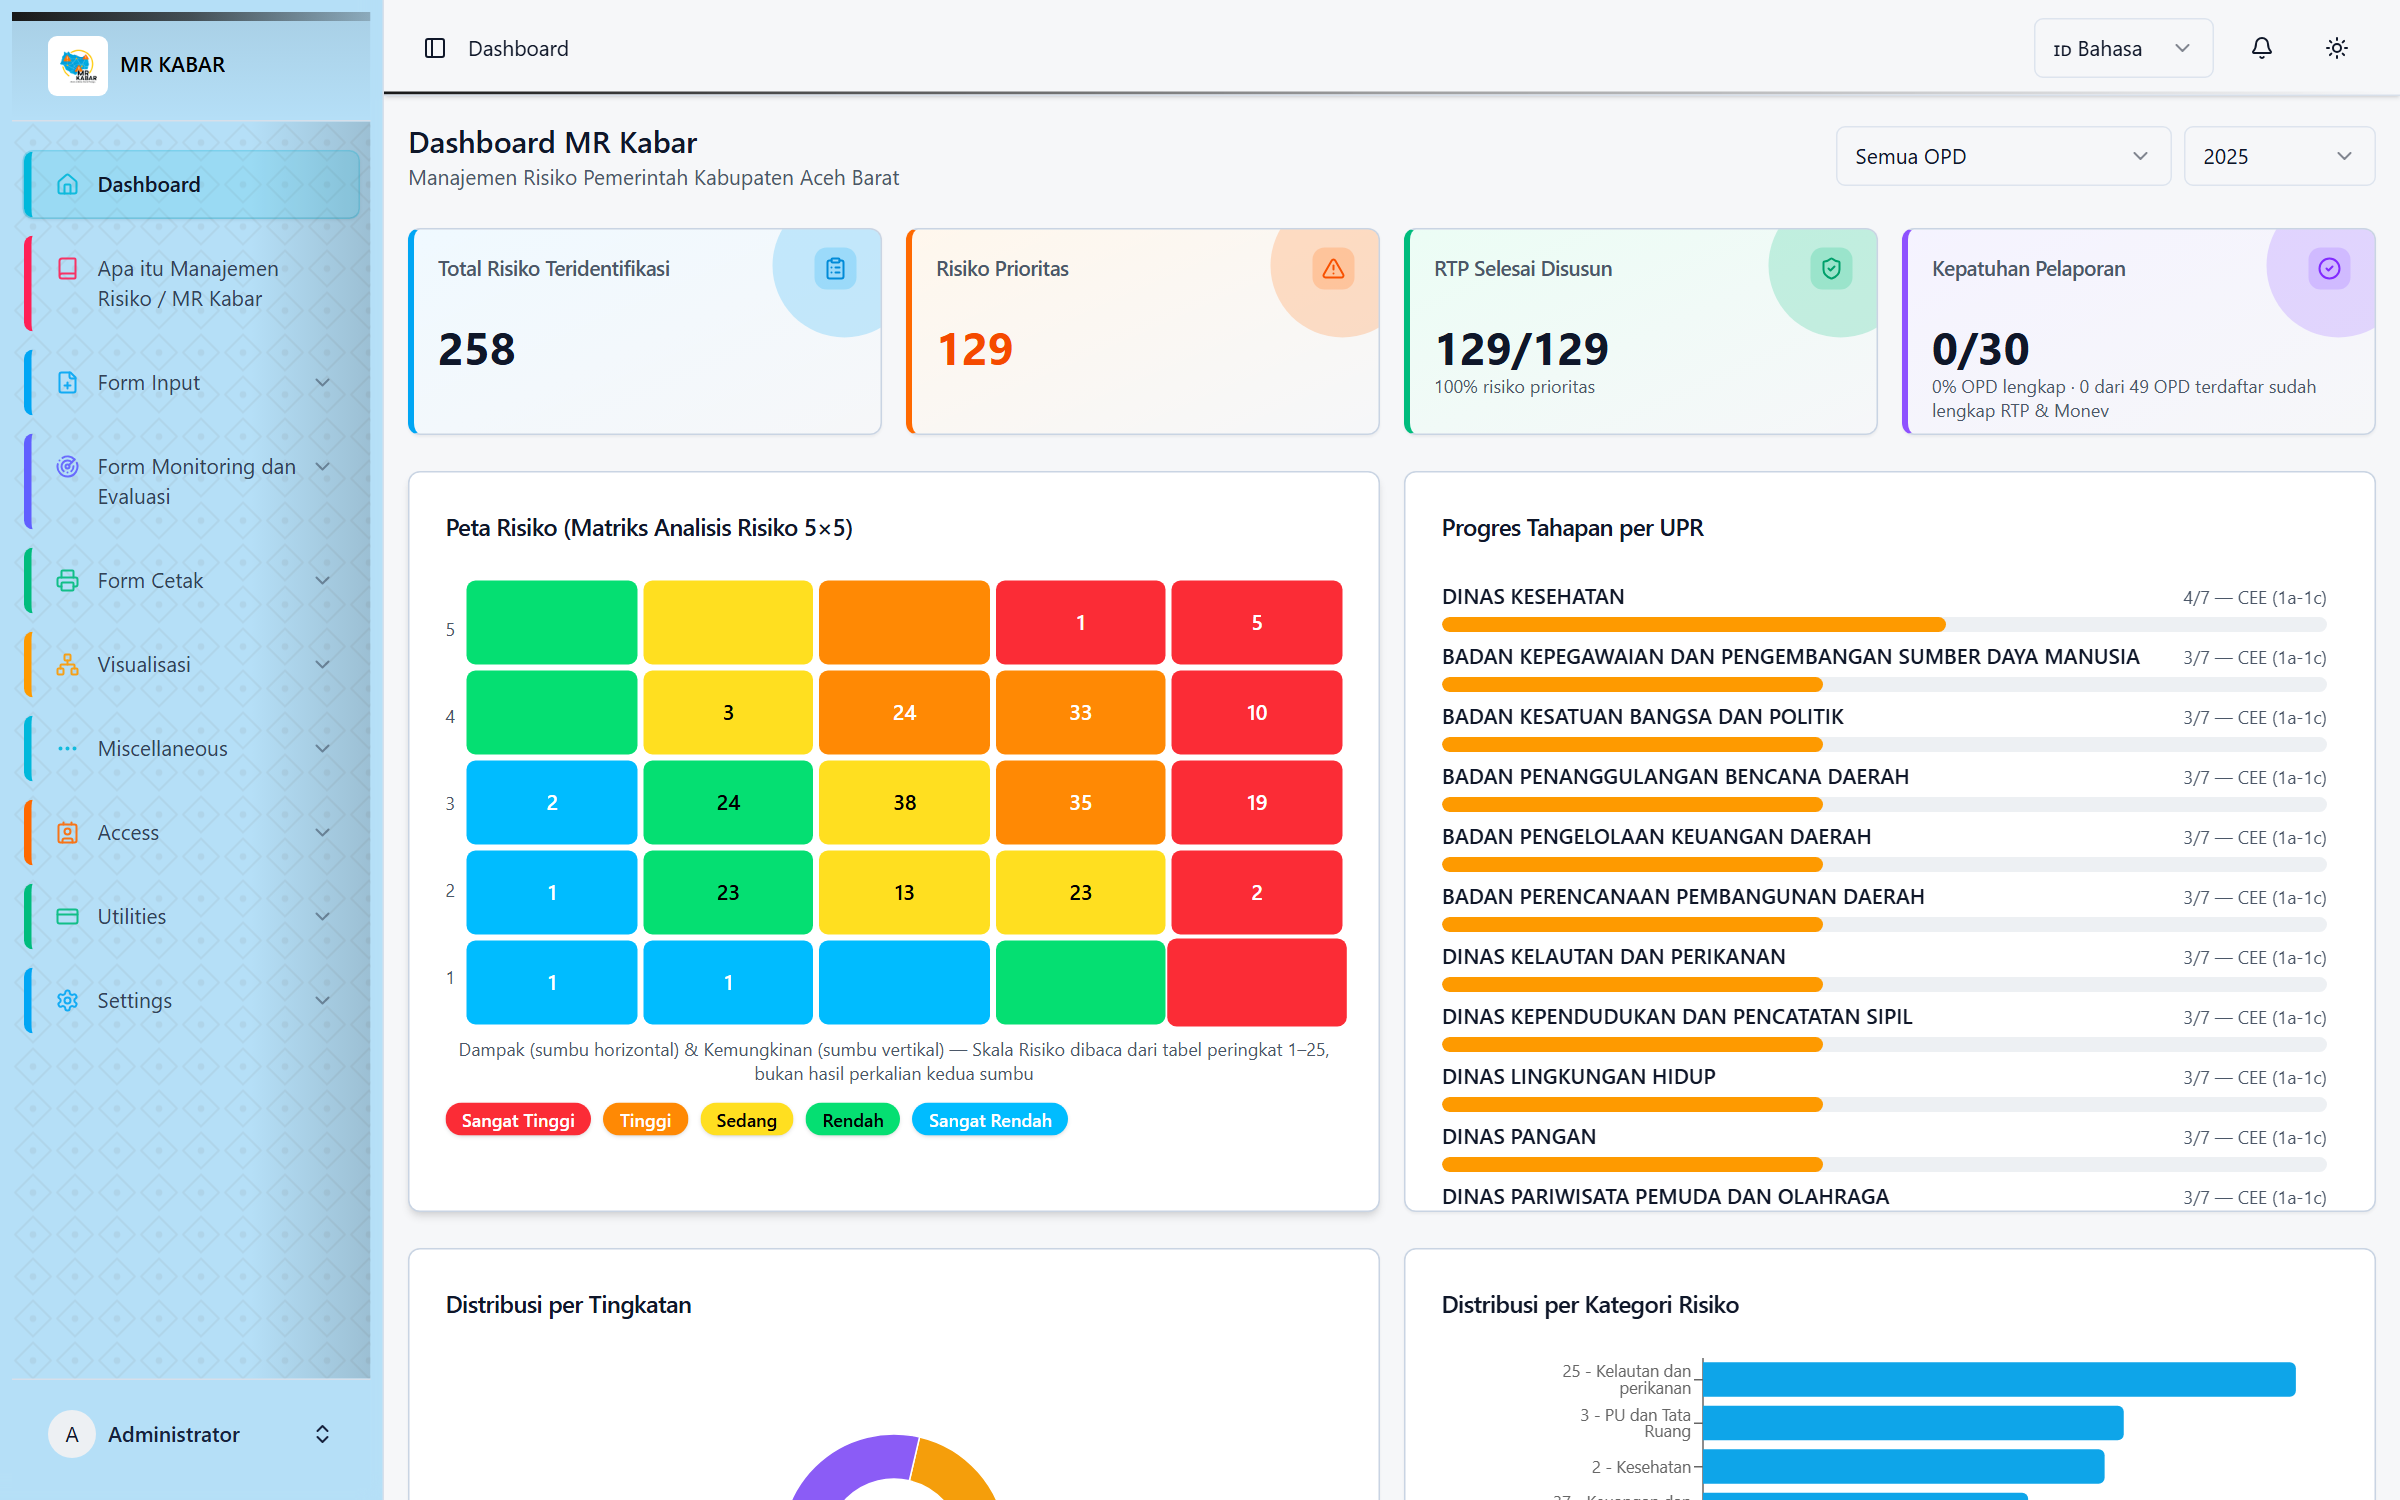
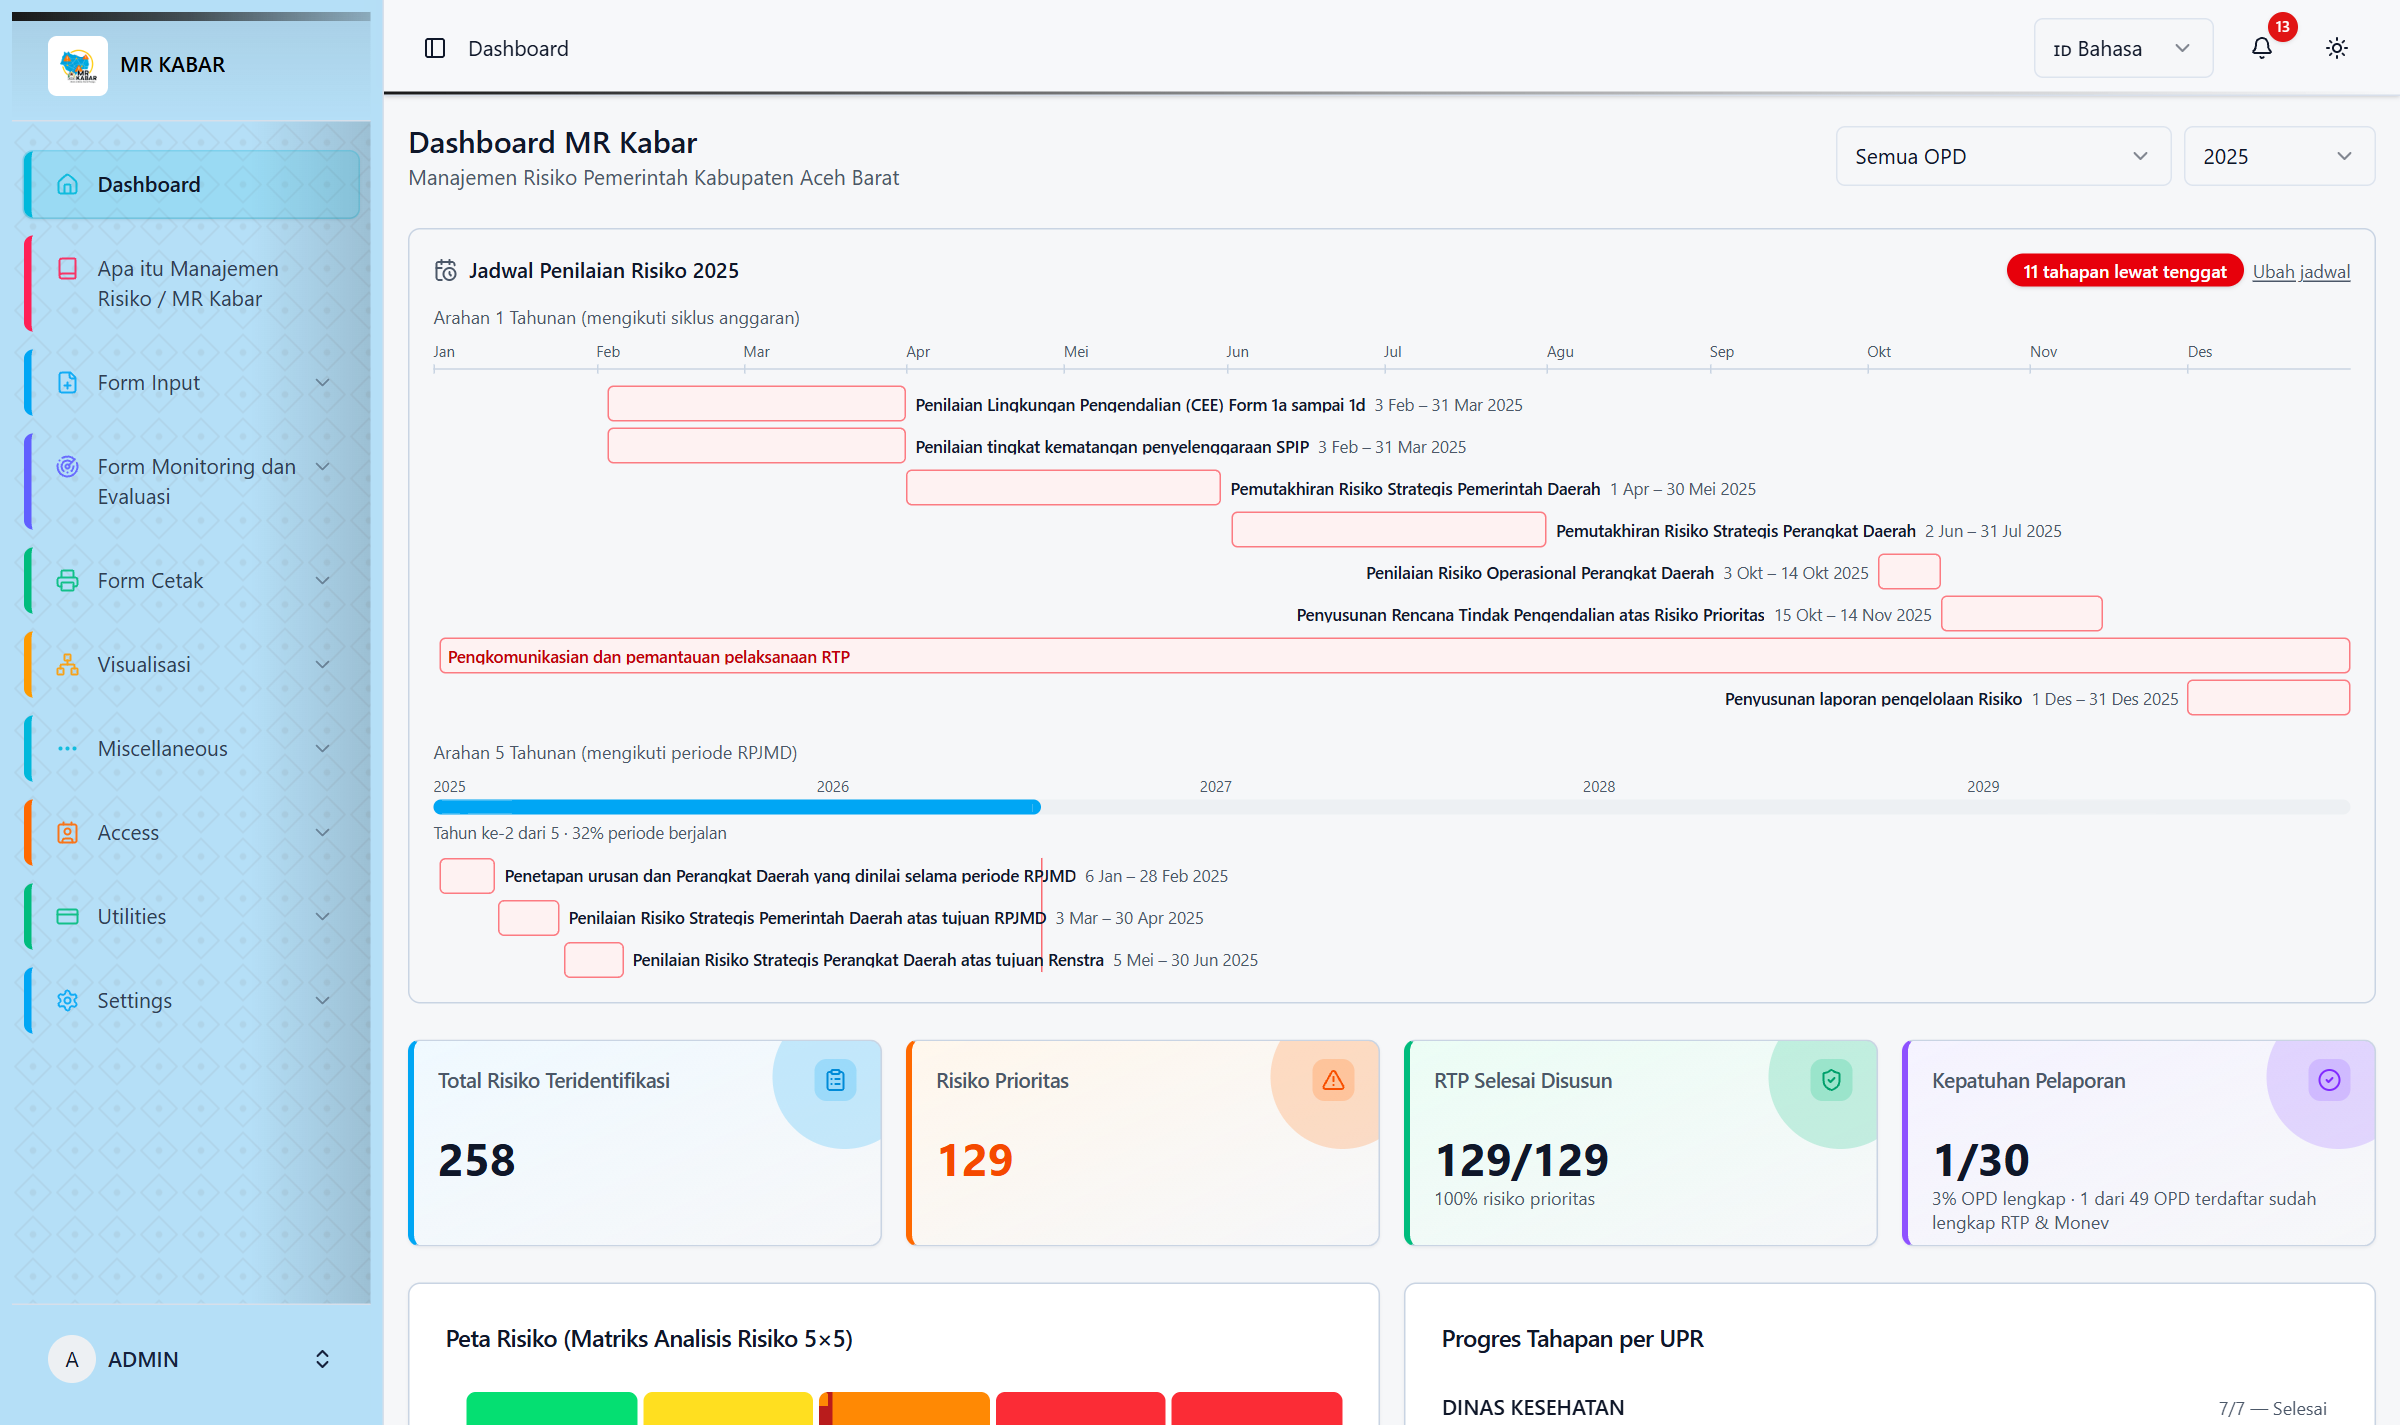
Perbarui laman proyek dan tangkapan layar ke keadaan aplikasi terkini
Delapan tangkapan layar diambil ulang; yang gelap kini digulir ke Peta Risiko
supaya garis batas Selera Risiko berikut legendanya terlihat - pada gulungan
nol ia berada di luar layar.

README menjelaskan yang belum pernah tertulis: Skala Risiko dibaca dari tabel
peringkat 1-25 dan BUKAN hasil perkalian kedua sumbu, mengikuti Perdep yang
membobot Dampak lebih berat (Dampak 5 x Kemungkinan 1 = 20, sedangkan Dampak 1
x Kemungkinan 5 = 9). Ditambah penyaring Periode/Tahun Penilaian berikut
alasan keduanya dibedakan, penyaring Perangkat Daerah, batas Selera Risiko,
dan widget Dasbor yang dapat ditelusuri.

diff --git a/README.md b/README.md
@@ -31,7 +31,10 @@ Aplikasi ini mencakup tiga tingkatan risiko sesuai Perdep PPKD: **Risiko Strateg
 - **Data Risiko (IRS dan IRO) — Gabungan** — satu halaman read-only yang menampilkan ketiga tabel Identifikasi Risiko (Strategis Pemda/PD, Operasional PD) sekaligus, dengan pencarian lintas-tabel dan tombol "Lihat Data" langsung ke Form Input aslinya.
 - **Klasifikasi Sumber Penyebab Risiko** — kategori Internal (7M+1E: Man/Machine/Method/Material/Money/Management/Measurement/Environment) dan Eksternal (PESTLE: Political/Economic/Social/Technological/Legal/Environmental), dengan badge warna berbeda per kategori di form input maupun laporan cetak.
 - **Visualisasi Hierarki** — diagram pohon interaktif yang menggabungkan struktur rencana strategis dengan risiko yang tertaut di setiap levelnya.
-- **Perhitungan otomatis** Skala Risiko dan Prioritas dari matriks analisis risiko 5×5 (dampak × kemungkinan), termasuk siklus 4-skor (Inheren → Residual → Target → Aktual).
+- **Perhitungan otomatis** Skala Risiko dan Prioritas dari matriks analisis risiko 5×5. Skala dibaca dari tabel peringkat 1–25, **bukan hasil perkalian** kedua sumbu — mengikuti Perdep yang membobot Dampak lebih berat daripada Kemungkinan (Dampak 5 × Kemungkinan 1 = 20, sedangkan Dampak 1 × Kemungkinan 5 = 9). Termasuk siklus 4-skor (Inheren → Residual → Target → Aktual).
+- **Batas Selera Risiko pada Peta Risiko** — garis putus-putus bertangga yang memisahkan sel di dalam dan di luar selera. Letaknya diturunkan dari penanda level risiko di Keterangan Pendukung, sehingga bergeser sendiri saat seleranya diubah; bentuknya bertangga, bukan lurus, karena mengikuti peringkat 1–25 yang tidak simetris.
+- **Penyaring Periode dan Tahun Penilaian** — KRS Pemda dan KRS PD disekat **Periode Penilaian** (mengikuti RPJMD/Renstra yang lima tahunan), KRO PD dan seluruh formulir risiko disekat **Tahun Penilaian** (mengikuti Renja/DPA yang tahunan). Keduanya terpisah dari Tahun Aktif, sehingga membaca tahun lalu tidak mengubah tahun berjalan bagi perangkat daerah lain.
+- **Penyaring Perangkat Daerah** pada seluruh halaman konteks dan risiko, disaring di server berdasarkan pemilik barisnya — bukan pencocokan teks, yang ejaannya berbeda-beda antar pengisi.
 - **Struktur kode risiko otomatis** mengikuti format `[JENIS].[TAHUN].[URUSAN].[OPD].[NOMOR URUT]`.
 - **Form Monitoring & Evaluasi** — pencatatan rencana/realisasi pengkomunikasian dan pemantauan atas Rencana Tindak Pengendalian (Form 8/9), serta pencatatan kejadian risiko nyata di lapangan (Form 10).
 - **Form Cetak Laporan Berjenjang** — Laporan Pelaksanaan Penilaian Risiko, Laporan Berkala Pengelolaan Risiko per triwulan, dan Laporan Pemantauan Unit Kepatuhan (Form 11/12/13), sesuai Bab IV Pelaporan Perdep.
@@ -71,9 +74,11 @@ Aplikasi ini mencakup tiga tingkatan risiko sesuai Perdep PPKD: **Risiko Strateg
 
 ## Tampilan Aplikasi
 
-| Dashboard (Light) | Dashboard (Dark) |
+| Dashboard — ringkasan & jadwal penilaian | Dashboard — Peta Risiko & batas Selera Risiko |
 | --- | --- |
 | ![Dashboard Light](screenshots/dashboard-light.png) | ![Dashboard Dark](screenshots/dashboard-dark.png) |
+
+Sebagian besar widget Dasbor dapat ditelusuri: sel Peta Risiko membuka daftar risiko di dalamnya lalu rincian tiap risiko, batang Progres Tahapan membuka rincian tujuh tahap sampai tautan ke formulir yang belum terisi, dan baris Ranking Eksposur membuka Data Risiko gabungan milik perangkat daerah tersebut.
 
 | Identifikasi Risiko (IRS Pemda) | Panduan Aplikasi |
 | --- | --- |
